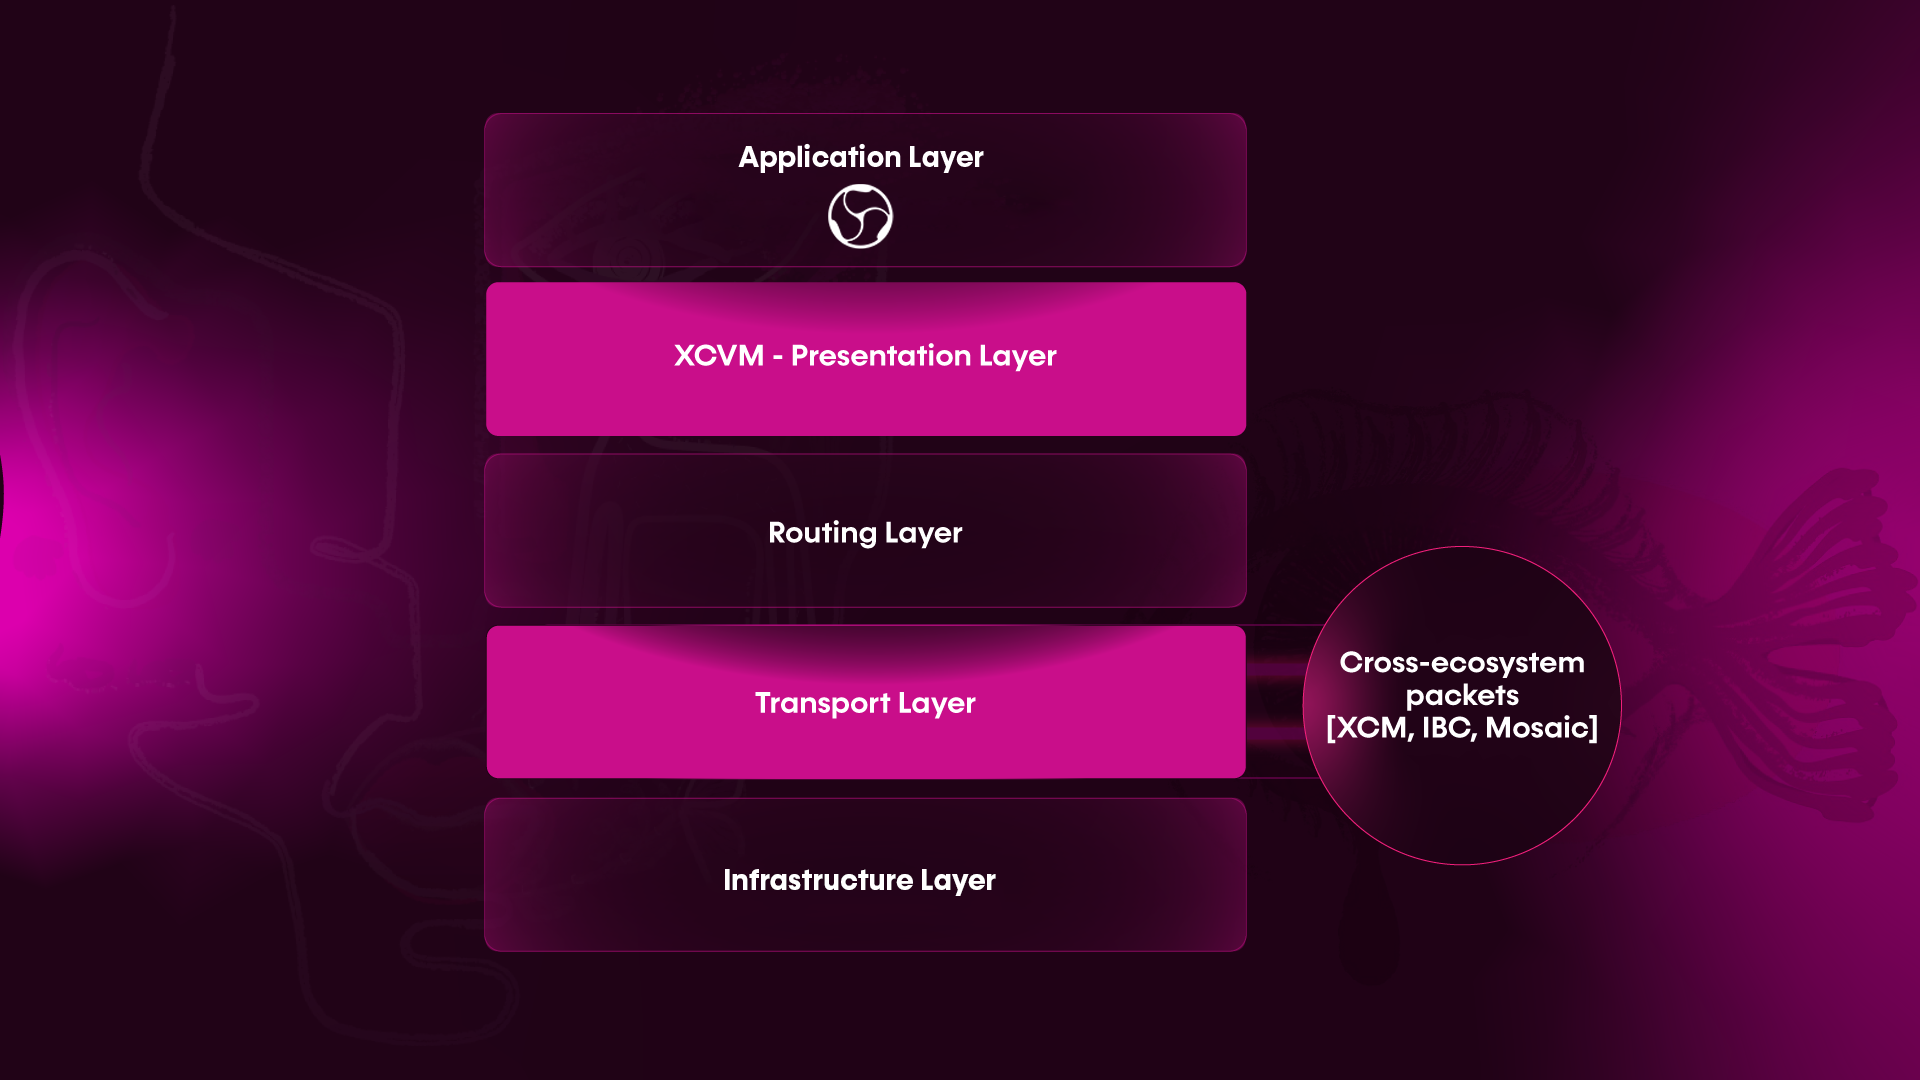
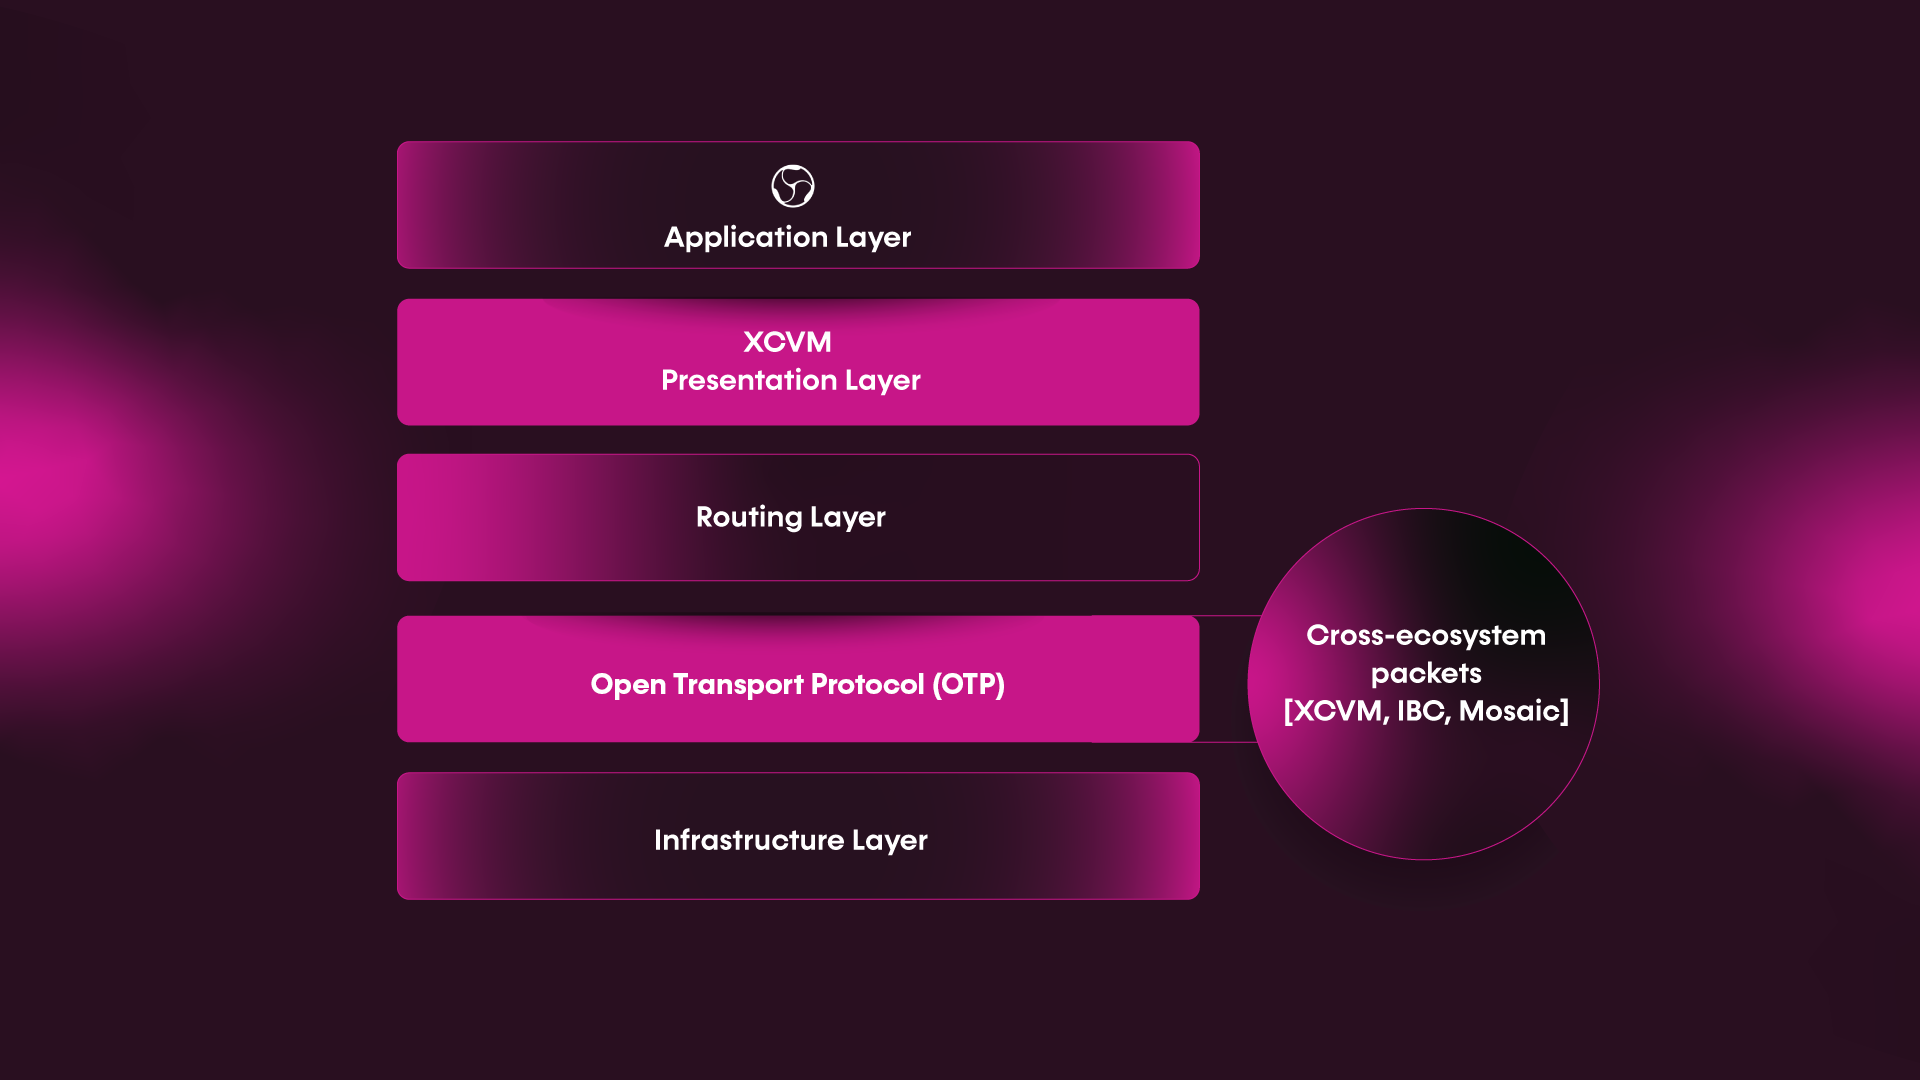
docs(technical-stack-overview): edit content

diff --git a/book/src/products/technical-stack-overview.md b/book/src/products/technical-stack-overview.md
@@ -4,61 +4,100 @@
 
 ## Simplicity at Our Core: Our Guiding Principle
 
-**Composable Finance is dedicated to eliminating the complexity that current DeFi users experience, abstracting away difficulties and unnecessary costs and delays. Our technical infrastructure takes on the complications of DeFi so that users can navigate the space easily and efficiently, in whatever manner suits their needs.**
+**Composable Finance is dedicated to eliminating the complexity that current DeFi users experience, abstracting away difficulties and unnecessary costs and delays. 
+Our technical infrastructure takes on the complications of DeFi so that users can navigate the space easily and efficiently, in whatever manner suits their needs.**
 
-Unnecessary complexity in many cases causes end-user friction and barricades developers from either expanding innovation or accessing it. To this end, we believe that sophisticated infrastructures must be rooted in simple and easy to use interfaces to propel efficiency and enable builders to ship confidently and faster. That is why at Composable Finance ‘simplicity’ is engrained in the DNA of our technologies and development ethos. Our purpose is to ensure pioneers get the most out of our whole host of products in the Composable ecosystem, and thus create exceptional experiences for the end user.
+Unnecessary complexity in many cases causes end-user friction and barricades developers from either expanding innovation or accessing it. 
+To this end, we believe that sophisticated infrastructures must be rooted in simple and easy to use interfaces to propel 
+efficiency and enable builders to ship confidently and faster. 
+That is why at Composable Finance ‘simplicity’ is engrained in the DNA of our technologies and development ethos. 
+Our purpose is to ensure pioneers get the most out of our whole host of products in the Composable ecosystem, 
+and thus create exceptional experiences for the end user.
 
-Upon the launch of our technology, our team and community of developers are committed to furthering the Composable tech stack through continual upgrades to user experience, exploring and attacking new opportunities to strive to push DeFi towards ultimate ubiquity.
+Upon the launch of our technology, our team and community of developers are committed to furthering the Composable tech stack
+through continual upgrades to user experience, exploring and attacking new opportunities to strive to push DeFi towards ultimate ubiquity.
 
 
 ## Our Current Technical Stack
 
-DeFi developers are able to leverage the existing suite of foundational pallets, such as Mosaic, Cubic, Apollo, Centauri, and more, to rapidly design, build, and launch interoperable products. Each foundational pallet provides unique and necessary DeFi functionality which can now be stacked and incorporated to make functions modular. Our infrastructure enabled ease of pallet composition and the immense flexibility of our tech stack provides each new innovation with **modular composability**.
+DeFi developers are able to leverage the existing suite of foundational pallets, such as Mosaic, Cubic, Apollo, Centauri, and more, 
+to rapidly design, build, and launch interoperable products. 
+Each foundational pallet provides unique and necessary DeFi functionality which can now be stacked and incorporated to make functions modular. 
+Our infrastructure enabled ease of pallet composition and the immense flexibility of our tech stack provides each new innovation with **modular composability**.
 
 
 ![technical_stack_overview](./composable-technical-stack.png)
-*The core components of the Composable Technical Stack. Similar to how Port Control Protocol became an essential networking fabric for the Internet, Composable’s vision is to become the entryway and fabric for interactions, transfers, and communication cross-ecosystem. The result is a Port Control Protocol-like system for blockchains.* 
+*Similar to how the DTCC acted as a reconciliation layer that enabled traditional markets to communicate with one another such as HFT, Darkpools and other financial instruments, 
+Composable is set to take DeFi along a similar evolution by allowing innovators to roll out the next generation of cross-chain applications through a single interface management experience.*
 
 
 ### The Composable Application Layer
 
+Composable is the first to implement the CosmWasm smart-contracting framework within the Substrate and DotSama ecosystems. 
+The application layer consists of applications that are deployed on the Composable XCVM. 
+Composable’s cross-chain virtual machine (XCVM) is our novel solution to facilitate the orchestration of cross-chain applications, 
+by using the CosmWasm framework for smart contracts.
 
-Composable is the first to implement the CosmWasm smart-contracting framework within the Substrate and DotSama ecosystems. The application layer consists of applications that are deployed on the Composable XCVM. Composable’s cross-chain virtual machine (XCVM) is our novel solution to facilitate the orchestration of cross-chain applications, by using the CosmWasm framework for smart contracts.
 
 ### The Composable Cross-Chain Virtual Machine
 
-
-The Composable Cross-Chain Virtual Machine (XCVM) is a top-level orchestration layer for deploying protocols that can communicate across multiple chains at once. It handles the complexity of routing to different networks so that developers can focus on while architecting cross-chain native smart contracts and protocols..
-
+The [Composable Cross-Chain Virtual Machine (XCVM)](./cross-chain-virtual-machine.md) is a top-level orchestration layer for deploying protocols that can communicate across multiple chains at once.
+The XCVM will abstract away complexity by enabling cross-chain smart contracts that leverage the power of the entire DeFi ecosystem for end users and DeFi developers. 
+Through the unification of the Polkadot, IBC and EVM-based ecosystems, developers building on the XCVM will be able to architect applications with farther reach than ever before.
 
 ### The Composable Routing Layer
 
-
-The [Routing Layer](./cross-chain-virtual-machine/routing-layer.md) is our pathway execution layer that assesses all of the possibilities for a given action (e.g taking out a loan of 1,000 USDC) across all potential layers and chains and selects the optimal pathway for a user. This layer will be crypto-economically secured, with incentives provided for actors to properly select the best routes for user actions. Thus, this layer will act as a function aggregator, providing optimal services to users without them having to scour the entire expanse of the DeFi space themselves for the most promising opportunities.
-
-
-### The Modular Transfer Availability Layer
-
-[Mosaic](./mosaic-overview.md) is our transfer availability layer and a primary pallet on Picasso that combines a [dynamic fee model](./mosaic/dynamic-fee-model.md), [liquidity forecasting](./mosaic/liquidity-forecasting.md), [passive liquidity rebalancing](./mosaic/passive-liquidity-rebalancing.md), and [active liquidity management](./mosaic/active-liquidity-management.md) to allow for seamless cross-chain transfers and liquidity routing to bridging infrastructures. As a proactive bridging infrastructure, Mosaic leverages a network of existing bridges to manage its LP vaults on different layers ensuring the ability to transfer assets cross-chain regardless of volume or size.
+The [Routing Layer](./cross-chain-virtual-machine/routing-layer.md) is our pathway execution layer that assesses all of the 
+possibilities for a given action (e.g taking out a loan of 1,000 USDC) across all potential layers and chains and selects the optimal pathway for a user. 
+This layer will be crypto-economically secured, with incentives provided for actors to properly select the best routes for user actions. 
+Thus, this layer will act as a function aggregator, providing optimal services to users without them having to scour the entire expanse of the DeFi space themselves for the most promising opportunities.
 
 
-### Centauri
+### Open Transport Protocol (OTP)
 
-To connect the Cosmos ecosystem to Kusama, Composable is developing [Centauri](./centauri-overview.md) — a [trustless bridging](https://medium.com/composable-finance/trustless-bridging-438a6e5c917a) infrastructure that can communicate with the IBC (Inter-Blockchain Communication) protocol and enabling the interecosystem transfer of assets between Cosmos and Substrate-native protocols. Centauri creates the underpinning link between existing and soon to be deployed pallets on Dostama and Cosmos, a first of its kind Kusama — Cosmos bridge that will further help boost utility for assets within both ecosystems. In addition, Composable is actively working to bridge in a trustless manner to ecosystems beyond Cosmos utilizing the IBC.
+The Open Transport Protocol (OTP) is our solution for bridge abstraction. 
+OTP ensures that all bridges capable of sending messages or tokens across chains can be registered to our system. 
+Thus allowing XCVM developers the ability to interact across more ecosystems. 
+Although our primary focus remains on providing trustless infrastructure through the use of IBC and XCM, 
+OTP opens the door for integrations with other bridges to provide flexibility and permissionless access to developers.
+
+[Mosaic](./mosaic-overview.md) is our transfer availability layer and a primary pallet on Picasso that combines a 
+[dynamic fee model](./mosaic/dynamic-fee-model.md), [liquidity forecasting](./mosaic/liquidity-forecasting.md), 
+[passive liquidity rebalancing](./mosaic/passive-liquidity-rebalancing.md), and [active liquidity management](./mosaic/active-liquidity-management.md) 
+to allow for seamless cross-chain transfers and liquidity routing to bridging infrastructures. 
+As a proactive bridging infrastructure, Mosaic leverages a network of existing bridges to manage its LP vaults on different layers
+ensuring the ability to transfer assets cross-chain regardless of volume or size.
+
+To connect the Cosmos ecosystem to Kusama, Composable is developing [Centauri](./centauri-overview.md) — a [trustless bridging](https://medium.com/composable-finance/trustless-bridging-438a6e5c917a) 
+infrastructure that can communicate with the IBC (Inter-Blockchain Communication) protocol and enabling the interecosystem transfer of assets between Cosmos and Substrate-native protocols. 
+Centauri creates the underpinning link between existing and soon to be deployed pallets on Dostama and Cosmos, 
+a first of its kind Kusama — Cosmos bridge that will further help boost utility for assets within both ecosystems. 
+In addition, Composable is actively working to bridge in a trustless manner to ecosystems beyond Cosmos utilizing the IBC.
 
 Composable's integration of the IBC and Cosm Wasm smart contracts into the XCVM will allow for many new integrations between ecosystems beyond Cosmos, helping to expand the capacity of Cosmos.
 
+
 ### Infrastructure Layer
 
-The infrastructure layer consists of the dual Kusama and Polkadot parachains (Picasso and Composable) that undergird the Composable ecosystem, and its pallet architecture, which is leveraged for the development of applications. The parachains provide enhanced security, customizability and blockchain efficiency.
-Primary pallets provide the essential building blocks found within any DeFi ecosystem. These pallets are meant to give the developers the fundamental functionality they are used to, such as oracles, vaults, and bridging infrastructure. Examples of some primary pallets we have been building include:
+The infrastructure layer consists of the dual Kusama and Polkadot parachains (Picasso and Composable) that undergird the Composable ecosystem, 
+and its pallet architecture, which is leveraged for the development of applications. 
+The parachains provide enhanced security, customizability and blockchain efficiency.
+Primary pallets provide the essential building blocks found within any DeFi ecosystem. 
+These pallets are meant to give the developers the fundamental functionality they are used to, such as oracles, vaults, and bridging infrastructure.
+Examples of some primary pallets we have been building include:
 
 
 ### Apollo
 
-Apollo is a MEV-resistant decentralized oracle that is leverageable for DeFi protocols to gain accurate information and price feeds in a decentralized manner. Apollo sets the standard for oracles first in DotSama and other ecosystems using different blockchain hooks to medianize and update data. Apollo will be flexible enough such that protocols can employ it based on their differing levels of security. We have orchestrated the design of Apollo into a leverageable oracle stack and we intend to work with partners who wish to utilize this technology.
+Apollo is a MEV-resistant decentralized oracle that is leverageable for DeFi protocols to gain accurate information and price feeds in a decentralized manner. 
+Apollo sets the standard for oracles first in DotSama and other ecosystems using different blockchain hooks to medianize and update data. 
+Apollo will be flexible enough such that protocols can employ it based on their differing levels of security. 
+We have orchestrated the design of Apollo into a leverageable oracle stack and we intend to work with partners who wish to utilize this technology.
 
 
 ### Cubic
 
-Cubic sets the standard as the first vault pallet in DotSama. Vaults are vital infrastructures leverageable universally in DeFi. Their utility is tied to storing and moving tokens for other primitives or dApps such as lending protocols and automated market makers (AMMs) that require vault technologies to store and move collaterals without incurring expensive transaction costs. Cubic ties the Kusama ecosystem, Mosaic (encompassing all the major EVM chains and L2s), and Centauri (Composable’s Substrate-IBC bridge connecting DotSama to Cosmos) together for the unification of yield generated between the DotSama, EVM-compatible and IBC-enabled ecosystems in vault strategies and beyond.
+Cubic sets the standard as the first vault pallet in DotSama. Vaults are vital infrastructures leverageable universally in DeFi. 
+Their utility is tied to storing and moving tokens for other primitives or dApps such as lending protocols and automated market makers (AMMs) that require vault technologies to store and move collaterals without incurring expensive transaction costs. 
+Cubic ties the Kusama ecosystem, Mosaic (encompassing all the major EVM chains and L2s), 
+and Centauri (Composable’s Substrate-IBC bridge connecting DotSama to Cosmos) together for the unification of yield generated between the DotSama, EVM-compatible and IBC-enabled ecosystems in vault strategies and beyond.
